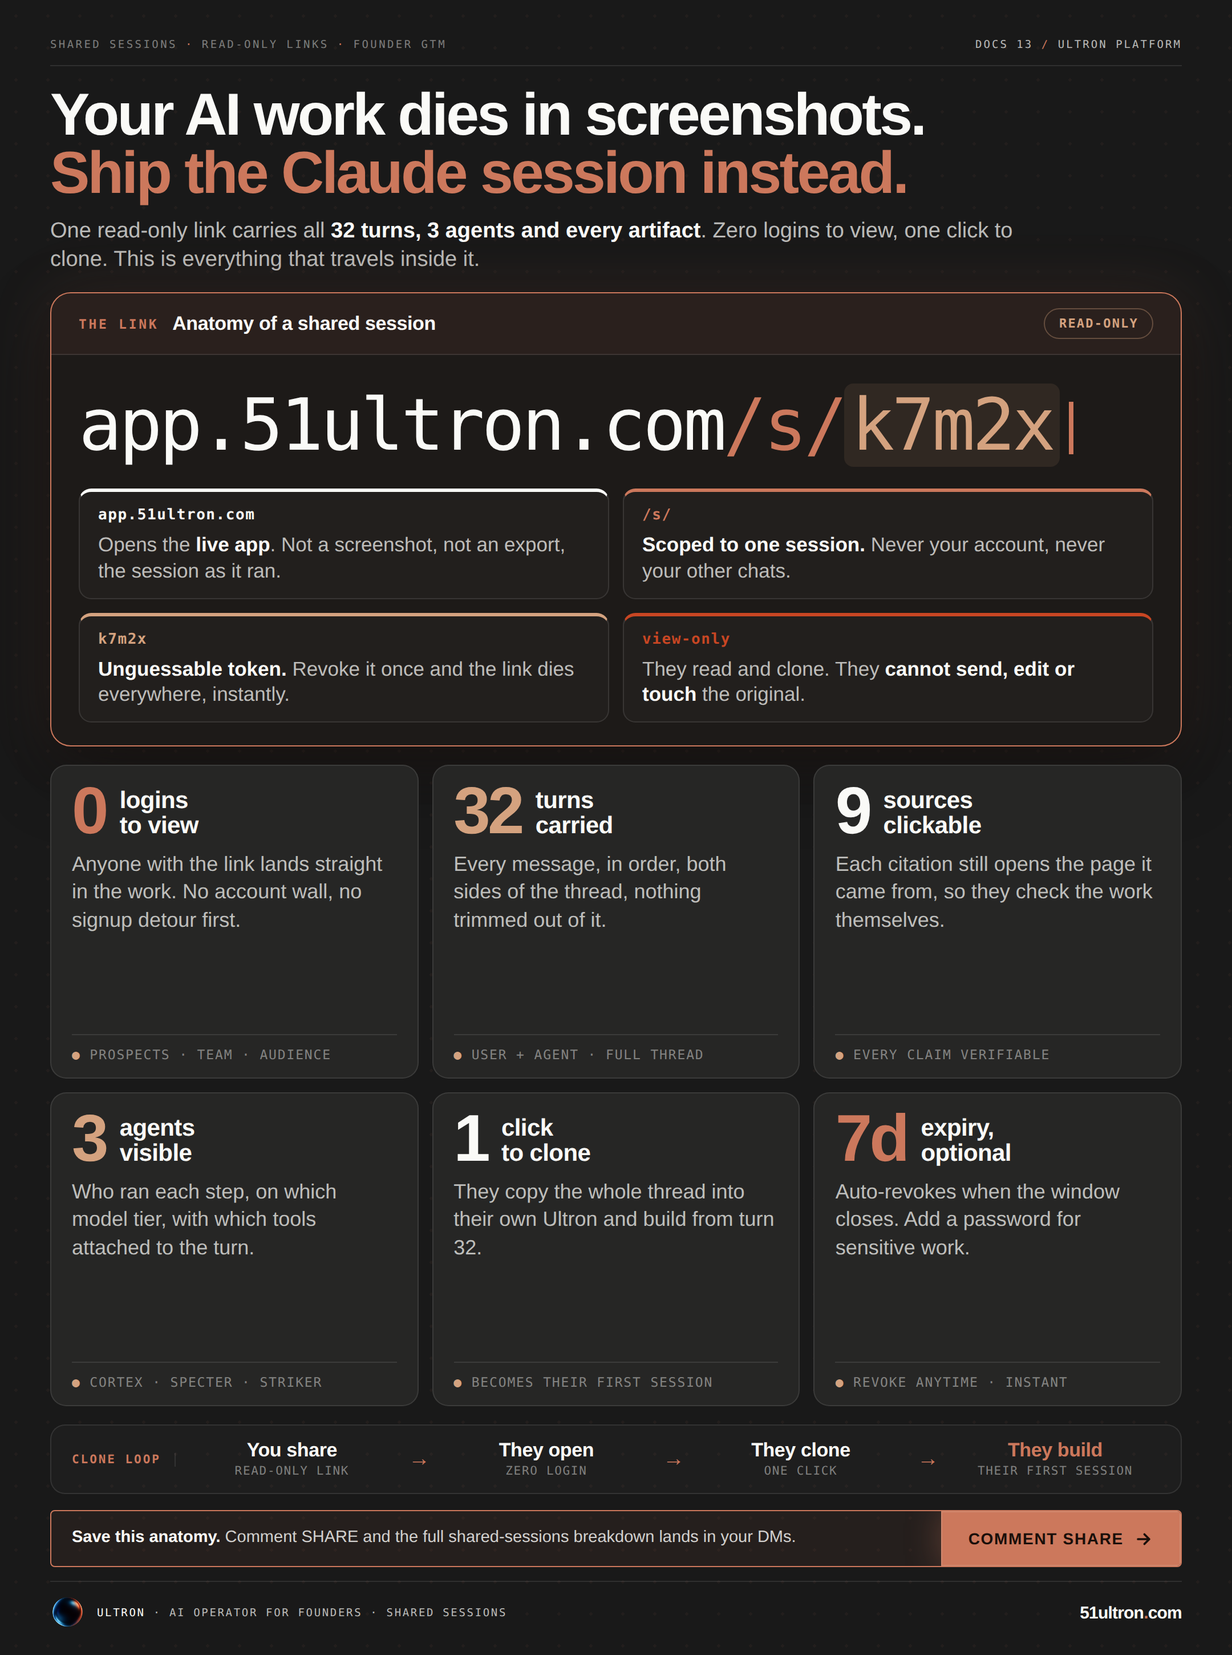
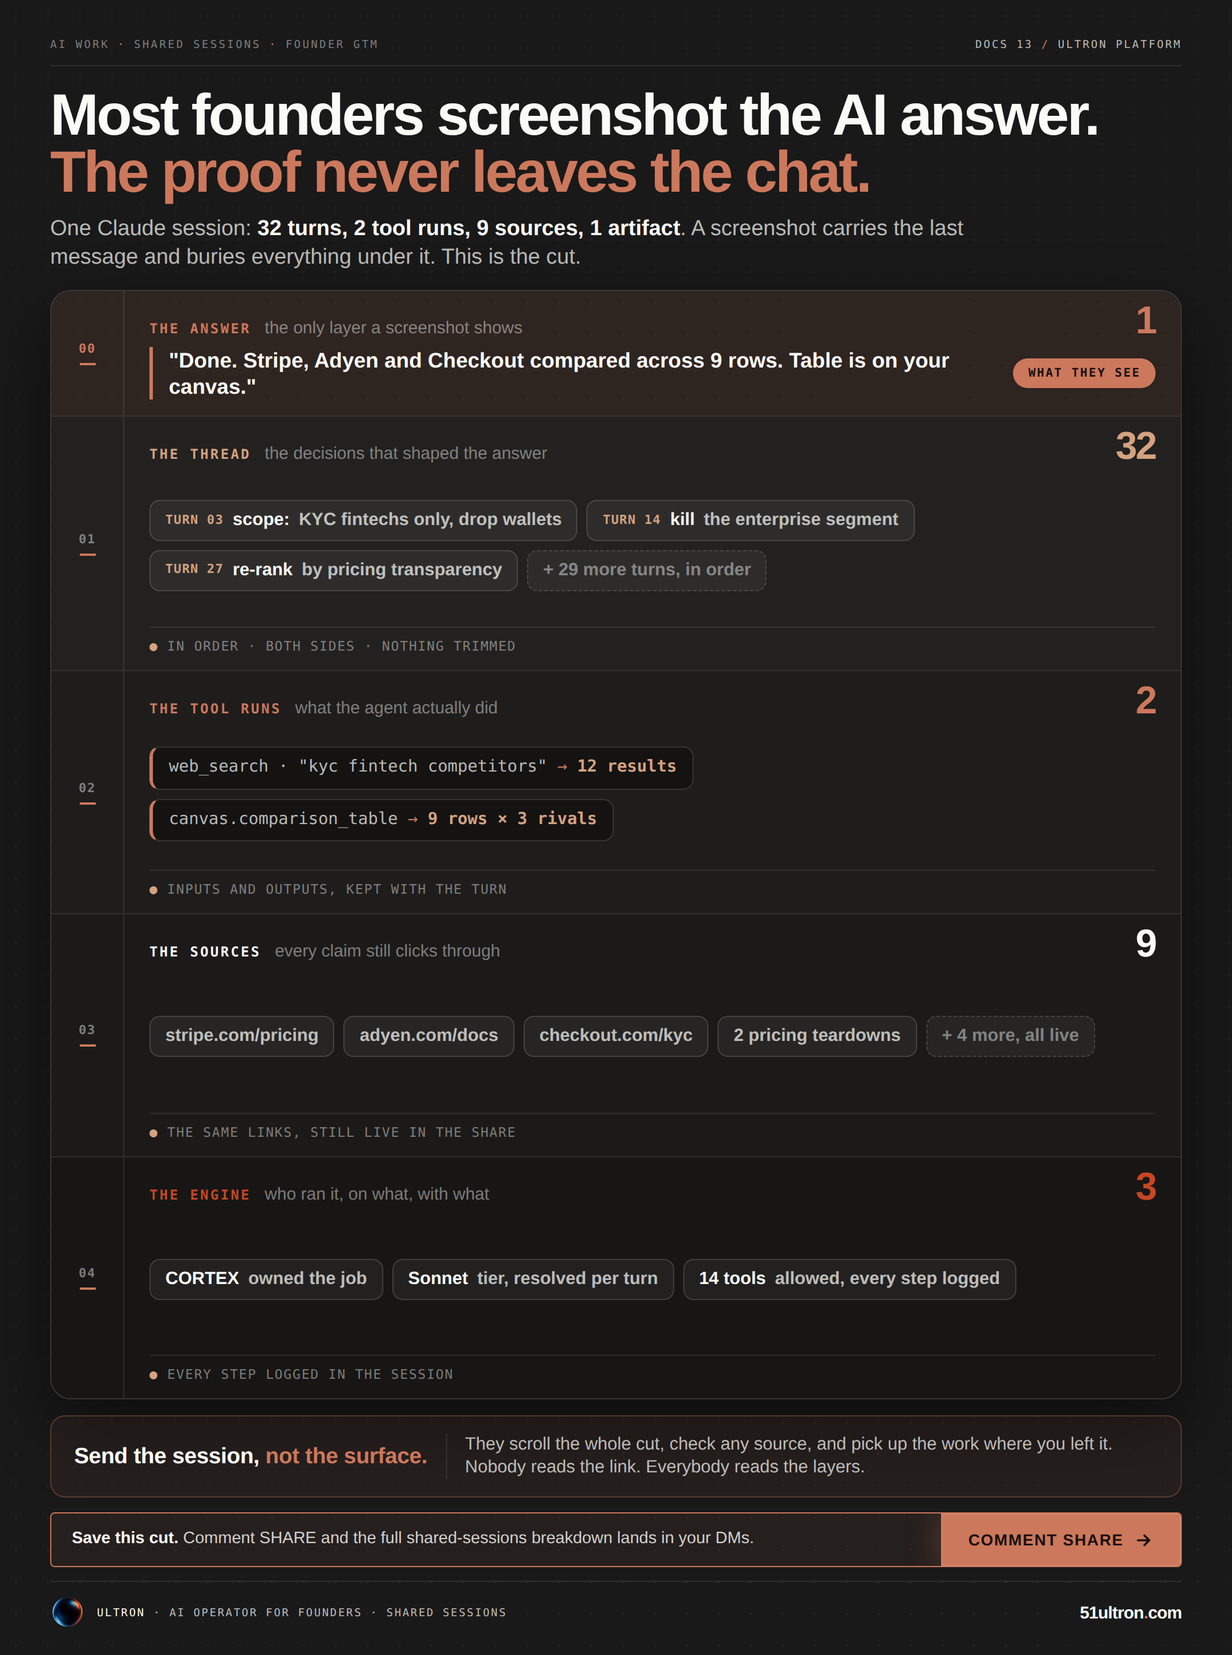
content: docs-13 LinkedIn REBUILD 2 - section cut through one session (operator pivot)
Operator killed the link-as-hero concept (reads as promo; nobody looks at the link they
share). New concept, value-first: a geological section cut through one Claude session -
the thin lit surface layer is the answer (all a screenshot shows), under it the heavy
strata: 32 turns with decision chips, 2 tool runs, 9 live sources, the engine. Takeaway:
send the session, not the surface. The link appears nowhere as a visual element. ALT
updated. Guard PASS: 1450, band 71px, 0% body overlap vs docs-12.

diff --git a/content/docs-13-shared-linkedin.html b/content/docs-13-shared-linkedin.html
@@ -1,5 +1,5 @@
 <!DOCTYPE html><html lang="en"><head><meta charset="UTF-8"><link href="https://fonts.googleapis.com/css2?family=DM+Sans:opsz,wght@9..40,400;9..40,500;9..40,700;9..40,800;9..40,900&family=DM+Mono:wght@400;500&display=swap" rel="stylesheet"><style>
-/* BUDGET: 1392px vertical: mast 38 + hd 188 + anat 404 + grid6 ~430(flex) + pipe 88 + ctab 80 + footy 56 + gaps 108 = 1392 */
+/* BUDGET: 1394px vertical: mast 38 + hd 178 + cut(flex) ~880 + say 84 + ctab 78 + footy 54 + gaps 82 = 1394 */
 :root{--slate:#191919;--slate2:#262625;--ivory:#FAFAF7;--ink70:rgba(250,250,247,.72);--ink46:rgba(250,250,247,.46);--ink30:rgba(250,250,247,.30);--ink14:rgba(250,250,247,.14);--rule:rgba(250,250,247,.10);--book:#CC785C;--bookd:#C84623;--kraft:#D4A27F;--cloud:#919180;}
 *{box-sizing:border-box;margin:0;padding:0;}
 body{background:#0d0d0d;display:flex;justify-content:center;padding:24px 0;font-family:'DM Sans',sans-serif;-webkit-font-smoothing:antialiased;}
@@ -13,57 +13,60 @@ body{background:#0d0d0d;display:flex;justify-content:center;padding:24px 0;font-
 .m2 .mr{font-family:'DM Mono',monospace;font-size:9.5px;font-weight:500;letter-spacing:.16em;text-transform:uppercase;color:var(--ink70);white-space:nowrap;flex-shrink:0;padding-left:18px;}
 .m2 .mr em{color:var(--book);font-style:normal;}
 .hd{flex-shrink:0;margin-top:18px;}
-.hk{font-weight:900;font-size:52px;line-height:.98;letter-spacing:-1.9px;color:var(--ivory);}
+.hk{font-weight:900;font-size:51px;line-height:.98;letter-spacing:-1.9px;color:var(--ivory);}
 .hk em{color:var(--book);font-style:normal;}
-.sb{margin-top:12px;font-size:19px;font-weight:500;line-height:1.32;color:var(--ink70);max-width:860px;}
+.sb{margin-top:12px;font-size:19px;font-weight:500;line-height:1.32;color:var(--ink70);max-width:880px;}
 .sb b{color:var(--ivory);font-weight:700;}
-/* anatomy panel: one giant link, dissected */
-.anat{flex-shrink:0;margin-top:16px;border:1px solid var(--book);border-radius:18px;overflow:hidden;background:#1d1a18;box-shadow:0 24px 60px rgba(0,0,0,.45),0 0 56px rgba(204,120,92,.14);}
-.an-h{display:flex;align-items:center;gap:12px;padding:13px 24px;border-bottom:1px solid var(--rule);background:rgba(204,120,92,.08);}
-.an-h .tg{font-family:'DM Mono',monospace;font-size:11.5px;font-weight:600;letter-spacing:.16em;text-transform:uppercase;color:var(--book);}
-.an-h .tt{font-size:17px;font-weight:800;color:var(--ivory);letter-spacing:-.2px;}
-.an-h .rt{margin-left:auto;font-family:'DM Mono',monospace;font-size:11px;font-weight:600;letter-spacing:.1em;text-transform:uppercase;color:var(--kraft);border:1px solid rgba(212,162,127,.35);border-radius:20px;padding:6px 12px;}
-.lk{padding:30px 24px 24px;font-family:'DM Mono',monospace;font-weight:500;font-size:63px;letter-spacing:-2.6px;white-space:nowrap;line-height:1;}
-.lk .d1{color:var(--ivory);}
-.lk .d2{color:var(--book);}
-.lk .d3{color:var(--kraft);background:rgba(212,162,127,.1);border-radius:8px;padding:0 6px;}
-.lk .cur{display:inline-block;width:4px;height:46px;background:var(--book);margin-left:8px;vertical-align:-4px;}
-.calls{display:grid;grid-template-columns:1fr 1fr;gap:12px;padding:0 24px 20px;}
-.cl{border:1px solid var(--rule);border-top:3px solid var(--cloud);border-radius:11px;padding:13px 16px 12px;background:rgba(250,250,247,.025);}
-.cl.c1{border-top-color:var(--ivory);}
-.cl.c2{border-top-color:var(--book);}
-.cl.c3{border-top-color:var(--kraft);}
-.cl.c4{border-top-color:var(--bookd);}
-.cl .ct{font-family:'DM Mono',monospace;font-size:13px;font-weight:600;letter-spacing:.06em;color:var(--ivory);}
-.cl.c2 .ct{color:var(--book);}.cl.c3 .ct{color:var(--kraft);}.cl.c4 .ct{color:var(--bookd);}
-.cl .cd{margin-top:7px;font-size:17.5px;font-weight:500;line-height:1.3;color:var(--ink70);}
-.cl .cd b{color:var(--ivory);font-weight:700;}
-/* 6 fact tiles */
-.grid6{flex:1;min-height:0;margin-top:16px;display:grid;grid-template-columns:1fr 1fr 1fr;grid-template-rows:1fr 1fr;gap:12px;}
-.t6{border:1px solid var(--rule);border-radius:14px;padding:16px 18px 13px;background:var(--slate2);display:flex;flex-direction:column;}
-.t6 .top{display:flex;align-items:flex-start;gap:12px;}
-.t6 .n{font-weight:900;font-size:58px;line-height:.82;letter-spacing:-2.4px;color:var(--book);flex-shrink:0;}
-.t6.k .n{color:var(--kraft);}
-.t6.w .n{color:var(--ivory);}
-.t6 .l{font-size:21px;font-weight:800;color:var(--ivory);letter-spacing:-.3px;line-height:1.04;padding-top:4px;}
-.t6 .x{margin-top:10px;font-size:18px;font-weight:500;color:var(--ink70);line-height:1.36;}
-.t6 .mt{margin-top:auto;padding-top:10px;border-top:1px solid var(--rule);font-family:'DM Mono',monospace;font-size:11.5px;letter-spacing:.08em;text-transform:uppercase;color:var(--ink46);}
-.t6 .mt em{color:var(--kraft);font-style:normal;}
-/* clone loop strip */
-.pipe{flex-shrink:0;margin-top:16px;display:flex;align-items:center;gap:10px;border:1px solid var(--rule);border-radius:13px;padding:13px 18px;background:rgba(250,250,247,.025);}
-.pipe .pl{flex-shrink:0;font-family:'DM Mono',monospace;font-size:10.5px;font-weight:600;letter-spacing:.14em;text-transform:uppercase;color:var(--book);writing-mode:initial;padding-right:12px;border-right:1px solid var(--rule);}
-.pipe .st{flex:1;text-align:center;}
-.pipe .st b{display:block;font-size:17px;font-weight:800;color:var(--ivory);letter-spacing:-.2px;line-height:1;}
-.pipe .st span{display:block;margin-top:4px;font-family:'DM Mono',monospace;font-size:10.5px;letter-spacing:.08em;text-transform:uppercase;color:var(--ink46);}
-.pipe .ar{flex-shrink:0;color:var(--book);font-size:19px;font-weight:700;}
-.pipe .st.last b{color:var(--book);}
+/* the section cut */
+.cut{flex:1;min-height:0;margin-top:16px;display:flex;flex-direction:column;border:1px solid var(--ink14);border-radius:18px;overflow:hidden;box-shadow:0 24px 60px rgba(0,0,0,.45);}
+.strat{display:flex;align-items:stretch;border-top:1px solid var(--rule);}
+.strat:first-child{border-top:none;}
+.rail{width:64px;flex-shrink:0;display:flex;flex-direction:column;align-items:center;justify-content:center;gap:6px;border-right:1px solid var(--rule);font-family:'DM Mono',monospace;font-size:11px;font-weight:600;letter-spacing:.08em;color:var(--ink46);}
+.rail i{width:14px;height:2px;background:var(--book);display:block;}
+.body{flex:1;min-width:0;padding:13px 22px 14px;display:flex;flex-direction:column;}
+.bh{display:flex;align-items:baseline;gap:12px;}
+.bh .nm{font-family:'DM Mono',monospace;font-size:12px;font-weight:600;letter-spacing:.14em;text-transform:uppercase;}
+.bh .ds{font-size:15px;font-weight:500;color:var(--ink46);}
+.bh .ct{margin-left:auto;font-weight:900;font-size:34px;line-height:.8;letter-spacing:-1.4px;flex-shrink:0;}
+/* surface: the thin lit layer a screenshot captures */
+.strat.s0{background:rgba(204,120,92,.12);flex:0 0 auto;}
+.strat.s0 .rail{color:var(--book);}
+.strat.s0 .bh .nm{color:var(--book);}
+.strat.s0 .bh .ct{color:var(--book);}
+.ans{margin-top:8px;display:flex;align-items:center;gap:14px;}
+.ans .q{flex:1;font-size:18.5px;font-weight:700;color:var(--ivory);line-height:1.25;border-left:3px solid var(--book);padding-left:14px;}
+.ans .tag{flex-shrink:0;font-family:'DM Mono',monospace;font-size:10.5px;font-weight:600;letter-spacing:.12em;text-transform:uppercase;color:#1a0f0a;background:var(--book);border-radius:20px;padding:7px 13px;}
+/* deep strata get darker as they go down */
+.strat.s1{background:#222120;flex:1.05;}
+.strat.s2{background:#1e1d1c;flex:1;}
+.strat.s3{background:#1b1a19;flex:1;}
+.strat.s4{background:#171615;flex:1;}
+.strat.s1 .bh .nm{color:var(--kraft);}.strat.s1 .bh .ct{color:var(--kraft);}
+.strat.s2 .bh .nm{color:var(--book);}.strat.s2 .bh .ct{color:var(--book);}
+.strat.s3 .bh .nm{color:var(--ivory);}.strat.s3 .bh .ct{color:var(--ivory);}
+.strat.s4 .bh .nm{color:var(--bookd);}.strat.s4 .bh .ct{color:var(--bookd);}
+.rowz{flex:1;min-height:0;margin-top:6px;display:flex;flex-wrap:wrap;gap:8px;align-content:center;align-items:center;}
+.bm{flex-shrink:0;margin-top:6px;padding-top:9px;border-top:1px solid var(--rule);font-family:'DM Mono',monospace;font-size:11.5px;letter-spacing:.08em;text-transform:uppercase;color:var(--ink46);}
+.bm em{color:var(--kraft);font-style:normal;}
+.chip{font-size:15.5px;font-weight:600;color:var(--ink70);background:rgba(250,250,247,.05);border:1px solid var(--ink14);border-radius:9px;padding:8px 13px;line-height:1.15;display:flex;align-items:center;gap:8px;}
+.chip b{color:var(--ivory);font-weight:800;}
+.chip i{font-family:'DM Mono',monospace;font-style:normal;font-size:11px;letter-spacing:.06em;text-transform:uppercase;color:var(--kraft);}
+.chip.more{color:var(--ink46);border-style:dashed;}
+.mono{font-family:'DM Mono',monospace;font-size:14.5px;color:var(--ink70);background:#141312;border:1px solid var(--ink14);border-left:3px solid var(--book);border-radius:9px;padding:9px 14px;line-height:1.2;}
+.mono b{color:var(--kraft);font-weight:600;}
+.mono em{color:var(--book);font-style:normal;}
+/* the takeaway */
+.say{flex-shrink:0;margin-top:14px;border:1px solid rgba(204,120,92,.32);border-radius:13px;background:rgba(204,120,92,.07);padding:15px 20px;display:flex;align-items:center;gap:16px;}
+.say .big{font-size:19.5px;font-weight:800;color:var(--ivory);letter-spacing:-.2px;line-height:1.25;flex-shrink:0;}
+.say .big em{color:var(--book);font-style:normal;}
+.say .rest{font-size:15.5px;font-weight:500;color:var(--ink70);line-height:1.3;border-left:1px solid var(--rule);padding-left:16px;}
 /* cta */
-.ctab{flex-shrink:0;margin-top:14px;display:flex;align-items:stretch;border:1px solid var(--book);border-radius:4px;overflow:hidden;}
-.ctab .tx{flex:1;padding:14px 18px;display:flex;flex-direction:column;justify-content:center;gap:5px;background:rgba(204,120,92,.07);}
+.ctab{flex-shrink:0;margin-top:13px;display:flex;align-items:stretch;border:1px solid var(--book);border-radius:4px;overflow:hidden;}
+.ctab .tx{flex:1;padding:13px 18px;display:flex;flex-direction:column;justify-content:center;gap:5px;background:rgba(204,120,92,.07);}
 .ctab .tx .l1{font-family:'DM Sans',sans-serif;font-size:14.5px;font-weight:500;color:rgba(250,250,247,.82);line-height:1.35;}
 .ctab .tx .l1 strong{color:var(--ivory);font-weight:800;}
-.ctab .chip{flex-shrink:0;padding:0 24px;gap:9px;background:var(--book);display:flex;align-items:center;font-family:'DM Sans',sans-serif;font-size:14px;font-weight:900;letter-spacing:.06em;text-transform:uppercase;color:#1a0f0a;box-shadow:inset 0 0 0 1px rgba(250,255,247,.12),0 0 30px rgba(204,120,92,.35);}
-.ctab .chip svg{width:17px;height:17px;stroke:#1a0f0a;stroke-width:2.6;fill:none;stroke-linecap:round;stroke-linejoin:round;}
+.ctab .chipc{flex-shrink:0;padding:0 24px;gap:9px;background:var(--book);display:flex;align-items:center;font-family:'DM Sans',sans-serif;font-size:14px;font-weight:900;letter-spacing:.06em;text-transform:uppercase;color:#1a0f0a;box-shadow:inset 0 0 0 1px rgba(250,255,247,.12),0 0 30px rgba(204,120,92,.35);}
+.ctab .chipc svg{width:17px;height:17px;stroke:#1a0f0a;stroke-width:2.6;fill:none;stroke-linecap:round;stroke-linejoin:round;}
 /* footer */
 .footy{flex-shrink:0;margin-top:12px;padding-top:12px;border-top:1px solid var(--rule);display:flex;align-items:center;justify-content:space-between;gap:16px;}
 .footy .lf{display:flex;align-items:center;gap:11px;min-width:0;}
@@ -73,30 +76,56 @@ body{background:#0d0d0d;display:flex;justify-content:center;padding:24px 0;font-
 .footy .u2{font-family:'DM Sans',sans-serif;font-weight:900;font-size:15px;letter-spacing:-.4px;color:var(--ivory);flex-shrink:0;}
 .footy .u2 em{color:var(--book);font-style:normal;}
 </style></head><body><div class="pg" id="artifact"><div class="glow"></div>
-<div class="m2"><div class="kw">SHARED SESSIONS<span class="sp">&middot;</span>READ-ONLY LINKS<span class="sp">&middot;</span>FOUNDER GTM</div><div class="mr">DOCS 13 <em>/</em> ULTRON PLATFORM</div></div>
+<div class="m2"><div class="kw">AI WORK<span class="sp">&middot;</span>SHARED SESSIONS<span class="sp">&middot;</span>FOUNDER GTM</div><div class="mr">DOCS 13 <em>/</em> ULTRON PLATFORM</div></div>
 <div class="hd">
-<div class="hk">Your AI work dies in screenshots.<br><em>Ship the Claude session instead.</em></div>
-<div class="sb">One read-only link carries all <b>32 turns, 3 agents and every artifact</b>. Zero logins to view, one click to clone. This is everything that travels inside it.</div>
+<div class="hk">Most founders screenshot the AI answer.<br><em>The proof never leaves the chat.</em></div>
+<div class="sb">One Claude session: <b>32 turns, 2 tool runs, 9 sources, 1 artifact</b>. A screenshot carries the last message and buries everything under it. This is the cut.</div>
 </div>
-<div class="anat">
-<div class="an-h"><span class="tg">The link</span><span class="tt">Anatomy of a shared session</span><span class="rt">read-only</span></div>
-<div class="lk"><span class="d1">app.51ultron.com</span><span class="d2">/s/</span><span class="d3">k7m2x</span><span class="cur"></span></div>
-<div class="calls">
-<div class="cl c1"><div class="ct">app.51ultron.com</div><div class="cd">Opens the <b>live app</b>. Not a screenshot, not an export, the session as it ran.</div></div>
-<div class="cl c2"><div class="ct">/s/</div><div class="cd"><b>Scoped to one session.</b> Never your account, never your other chats.</div></div>
-<div class="cl c3"><div class="ct">k7m2x</div><div class="cd"><b>Unguessable token.</b> Revoke it once and the link dies everywhere, instantly.</div></div>
-<div class="cl c4"><div class="ct">view-only</div><div class="cd">They read and clone. They <b>cannot send, edit or touch</b> the original.</div></div>
+<div class="cut">
+<div class="strat s0"><div class="rail">00<i></i></div><div class="body">
+<div class="bh"><span class="nm">The answer</span><span class="ds">the only layer a screenshot shows</span><span class="ct">1</span></div>
+<div class="ans"><div class="q">"Done. Stripe, Adyen and Checkout compared across 9 rows. Table is on your canvas."</div><div class="tag">what they see</div></div>
+</div></div>
+<div class="strat s1"><div class="rail">01<i></i></div><div class="body">
+<div class="bh"><span class="nm">The thread</span><span class="ds">the decisions that shaped the answer</span><span class="ct">32</span></div>
+<div class="rowz">
+<div class="chip"><i>turn 03</i><b>scope:</b> KYC fintechs only, drop wallets</div>
+<div class="chip"><i>turn 14</i><b>kill</b> the enterprise segment</div>
+<div class="chip"><i>turn 27</i><b>re-rank</b> by pricing transparency</div>
+<div class="chip more">+ 29 more turns, in order</div>
 </div>
+<div class="bm"><em>&#9679;</em> in order &middot; both sides &middot; nothing trimmed</div>
+</div></div>
+<div class="strat s2"><div class="rail">02<i></i></div><div class="body">
+<div class="bh"><span class="nm">The tool runs</span><span class="ds">what the agent actually did</span><span class="ct">2</span></div>
+<div class="rowz">
+<div class="mono">web_search &middot; "kyc fintech competitors" <em>&rarr;</em> <b>12 results</b></div>
+<div class="mono">canvas.comparison_table <em>&rarr;</em> <b>9 rows &times; 3 rivals</b></div>
 </div>
-<div class="grid6">
-<div class="t6"><div class="top"><span class="n">0</span><span class="l">logins<br>to view</span></div><div class="x">Anyone with the link lands straight in the work. No account wall, no signup detour first.</div><div class="mt"><em>&#9679;</em> prospects &middot; team &middot; audience</div></div>
-<div class="t6 k"><div class="top"><span class="n">32</span><span class="l">turns<br>carried</span></div><div class="x">Every message, in order, both sides of the thread, nothing trimmed out of it.</div><div class="mt"><em>&#9679;</em> user + agent &middot; full thread</div></div>
-<div class="t6 w"><div class="top"><span class="n">9</span><span class="l">sources<br>clickable</span></div><div class="x">Each citation still opens the page it came from, so they check the work themselves.</div><div class="mt"><em>&#9679;</em> every claim verifiable</div></div>
-<div class="t6 k"><div class="top"><span class="n">3</span><span class="l">agents<br>visible</span></div><div class="x">Who ran each step, on which model tier, with which tools attached to the turn.</div><div class="mt"><em>&#9679;</em> cortex &middot; specter &middot; striker</div></div>
-<div class="t6 w"><div class="top"><span class="n">1</span><span class="l">click<br>to clone</span></div><div class="x">They copy the whole thread into their own Ultron and build from turn 32.</div><div class="mt"><em>&#9679;</em> becomes their first session</div></div>
-<div class="t6"><div class="top"><span class="n">7d</span><span class="l">expiry,<br>optional</span></div><div class="x">Auto-revokes when the window closes. Add a password for sensitive work.</div><div class="mt"><em>&#9679;</em> revoke anytime &middot; instant</div></div>
+<div class="bm"><em>&#9679;</em> inputs and outputs, kept with the turn</div>
+</div></div>
+<div class="strat s3"><div class="rail">03<i></i></div><div class="body">
+<div class="bh"><span class="nm">The sources</span><span class="ds">every claim still clicks through</span><span class="ct">9</span></div>
+<div class="rowz">
+<div class="chip">stripe.com/pricing</div>
+<div class="chip">adyen.com/docs</div>
+<div class="chip">checkout.com/kyc</div>
+<div class="chip">2 pricing teardowns</div>
+<div class="chip more">+ 4 more, all live</div>
 </div>
-<div class="pipe"><span class="pl">Clone loop</span><span class="st"><b>You share</b><span>read-only link</span></span><span class="ar">&rarr;</span><span class="st"><b>They open</b><span>zero login</span></span><span class="ar">&rarr;</span><span class="st"><b>They clone</b><span>one click</span></span><span class="ar">&rarr;</span><span class="st last"><b>They build</b><span>their first session</span></span></div>
-<div class="ctab"><div class="tx"><div class="l1"><strong>Save this anatomy.</strong> Comment SHARE and the full shared-sessions breakdown lands in your DMs.</div></div><div class="chip">COMMENT SHARE<svg viewBox="0 0 24 24"><path d="M5 12h14M13 6l6 6-6 6"/></svg></div></div>
+<div class="bm"><em>&#9679;</em> the same links, still live in the share</div>
+</div></div>
+<div class="strat s4"><div class="rail">04<i></i></div><div class="body">
+<div class="bh"><span class="nm">The engine</span><span class="ds">who ran it, on what, with what</span><span class="ct">3</span></div>
+<div class="rowz">
+<div class="chip"><b>CORTEX</b> owned the job</div>
+<div class="chip"><b>Sonnet</b> tier, resolved per turn</div>
+<div class="chip"><b>14 tools</b> allowed, every step logged</div>
+</div>
+<div class="bm"><em>&#9679;</em> every step logged in the session</div>
+</div></div>
+</div>
+<div class="say"><div class="big">Send the session, <em>not the surface.</em></div><div class="rest">They scroll the whole cut, check any source, and pick up the work where you left it. Nobody reads the link. Everybody reads the layers.</div></div>
+<div class="ctab"><div class="tx"><div class="l1"><strong>Save this cut.</strong> Comment SHARE and the full shared-sessions breakdown lands in your DMs.</div></div><div class="chipc">COMMENT SHARE<svg viewBox="0 0 24 24"><path d="M5 12h14M13 6l6 6-6 6"/></svg></div></div>
 <div class="footy"><div class="lf"><img class="lg" src="__LOGO_URI__" alt="Ultron"><div class="tx2"><strong>ULTRON</strong> &middot; AI OPERATOR FOR FOUNDERS &middot; SHARED SESSIONS</div></div><div class="u2">51ultron<em>.</em>com</div></div>
 </div></body></html>

diff --git a/content/docs-13-shared-caption.md b/content/docs-13-shared-caption.md
@@ -40,7 +40,7 @@ Comment SHARE and I will send you the full Claude shared-sessions breakdown we r
 
 ## ALT TEXT
 
-Dark editorial visual on slate background. The headline reads 'Your AI work dies in screenshots. Ship the Claude session instead.' Below, an anatomy panel dissects one shared link, app.51ultron.com/s/k7m2x, set huge in mono type with the domain in ivory, /s/ in book-orange and the k7m2x token highlighted in kraft. Four annotation cards explain each part: the domain opens the live app, /s/ scopes the link to one session, the token is unguessable and dies on revoke, and view-only means they read and clone but cannot send. A six tile grid follows: 0 logins to view, 32 turns carried, 9 sources clickable, 3 agents visible, 1 click to clone, 7 day optional expiry. A clone-loop strip runs you share, they open, they clone, they build. Closes with a Comment SHARE call to action and the Ultron logo.
+Dark editorial visual on slate background. The headline reads 'Most founders screenshot the AI answer. The proof never leaves the chat.' Below sits a geological section cut through one Claude session, five layers deep with a depth rail on the left. The thin lit surface layer, labeled 'the answer, the only layer a screenshot shows', holds one quoted message and a what-they-see tag. Underneath, progressively darker strata: the thread with 32 turns and three decision chips, the tool runs with two mono rows, web_search returning 12 results and a comparison table of 9 rows by 3 rivals, the sources with 9 live links as chips, and the engine, CORTEX on the Sonnet tier with 14 tools allowed. A takeaway strip reads 'Send the session, not the surface.' Closes with a Comment SHARE call to action and the Ultron logo.
 
 ---
 
